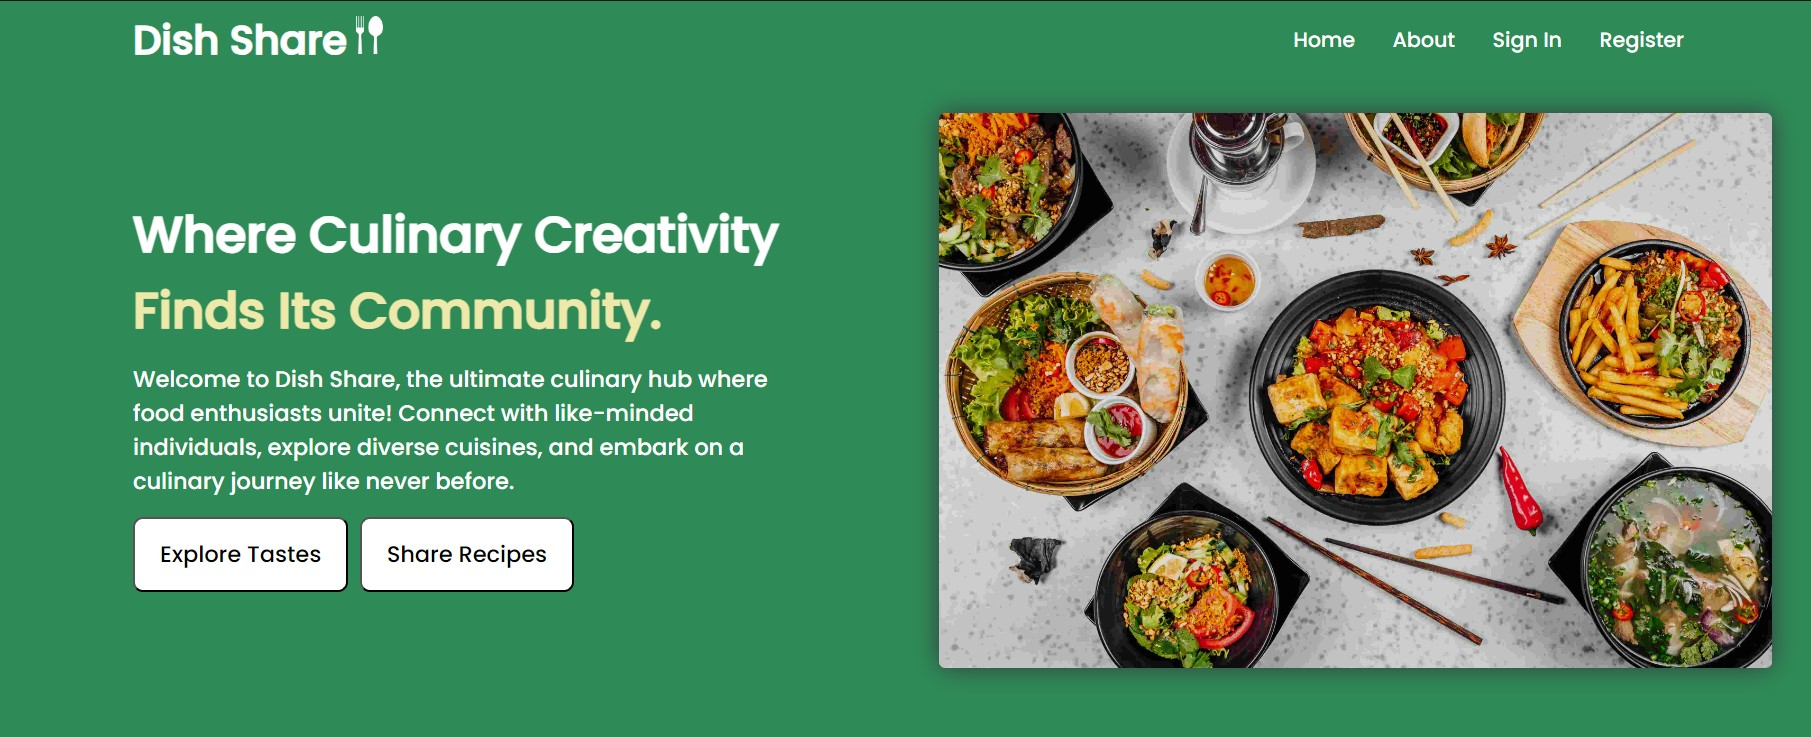
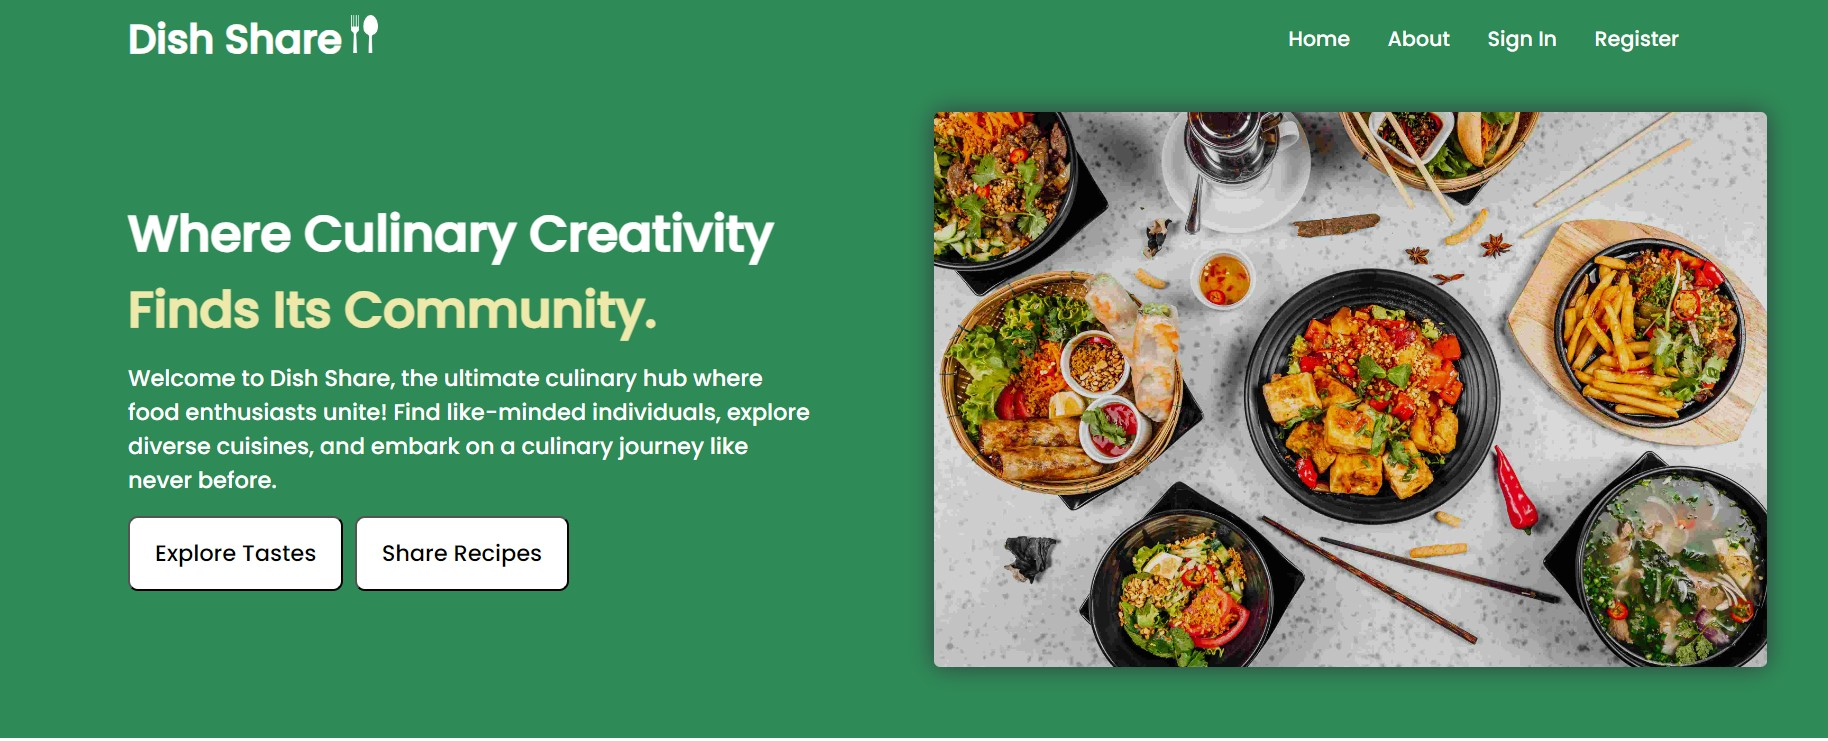
Project Development Overview added to README

diff --git a/app/templates/index.html b/app/templates/index.html
@@ -32,7 +32,7 @@
             <h1 class="first-title">Where Culinary Creativity</h1>
             <h1 class="second-title">Finds Its Community.</h1>
             <p>Welcome to Dish Share, the ultimate culinary hub where food enthusiasts unite!
-                Connect with like-minded individuals, explore diverse cuisines, and embark on a culinary journey like never before.
+                Find like-minded individuals, explore diverse cuisines, and embark on a culinary journey like never before.
             </p>
             <div class="landing-buttons">
                 <form action="{{ url_for('home') }}" method="GET">

diff --git a/README.md b/README.md
@@ -16,3 +16,64 @@ The idea behind Dish Share is simple, I wanted to create something that not only
 * CSS
 * Javascript
 
+#### Database:
+* MySQL
+
+#### DevOps:
+* **Web Server:** Nginx
+* **Application Server:** Gunicorn to serve the Flask app
+* **Security:** Utilized SSL for secure connections and UFW Firewall for added protection.
+
+### Project Development Overview
+#### Backend:
+In this section, I'll provide a detailed overview of my work on Dish Share, covering aspects from the backend to the frontend.
+1. **Database Setup:**
+   - Created a MySQL database and user to store web app data.
+
+2. **Authentication System:**
+   - Implemented user login and registration forms for secure authentication.
+
+3. **User's Account:**
+   - Created an account form where users can update their information(Profile Picture, Username, Email)
+
+4. **Recipe Posting Functionality:**
+   - Added a post recipe form to allow users to share their favorite recipes with the community.
+
+5. **External API Integration:**
+   - Integrated the Spoonacular API to enhance user experience:
+      - Implemented a search bar for users to discover recipes easily.
+      - Showcased trending recipes on the home page for current popular choices.
+      - Created an "Explore Recipes" section, utilizing the Spoonacular API to provide users with a diverse range of recipe suggestions.
+
+#### Frontend:
+1. **Navigation Bar:**
+   - Created a navigation bar where the Dish Share logo is aligned on the left, and on the right, defined different sections provided by the web app.
+
+2. **Form Pages:**
+   - Implemented a consistent style and design for the web app forms.
+
+3. **Main Pages:**
+   * **Landing Page:**
+      - Divided the landing page into two main sections:
+         + **First Section:**
+            - Introduction to the web app with its slogan, description, a picture of several dishes, and two buttons: One to navigate to the home, and the other to navigate to the add recipe page where the user can describe and post his recipes.
+         + **Second Section:**
+            - Description of the different features that the web app provides to its users.
+   * **Home Page:**
+      - The home page is also divided into two main sections:
+         + **First Section:**
+            - **Featured Dish:** Showcased an easy-to-make and delicious main dish to attract users.
+            - **Trending Recipes:** Highlighted trending recipes provided by the Spoonacular API.
+         + **Second Section:**
+            - Added an "Explore Recipes" section, utilizing the Spoonacular API to allow users to discover various recipes directly from the home page.
+   * **Recipe Feed:**
+      - The Recipe Feed page is designed as articles where every article is a recipe post by the user that contains the name of the user, date posted, recipe's title, and recipe's picture. It is ordered from the latest to the oldest. I defined 5 posts for a maximum number of posts per page. Users can navigate from page to page using number buttons at the bottom of the page.
+
+      <!-- - To get the full recipe with its ingredients and intructions, you can just click the title or the image or a link that says full recipe to navigate to the page of the full recipe. -->
+      
+
+   
+
+
+
+For the frontend, I started with 
